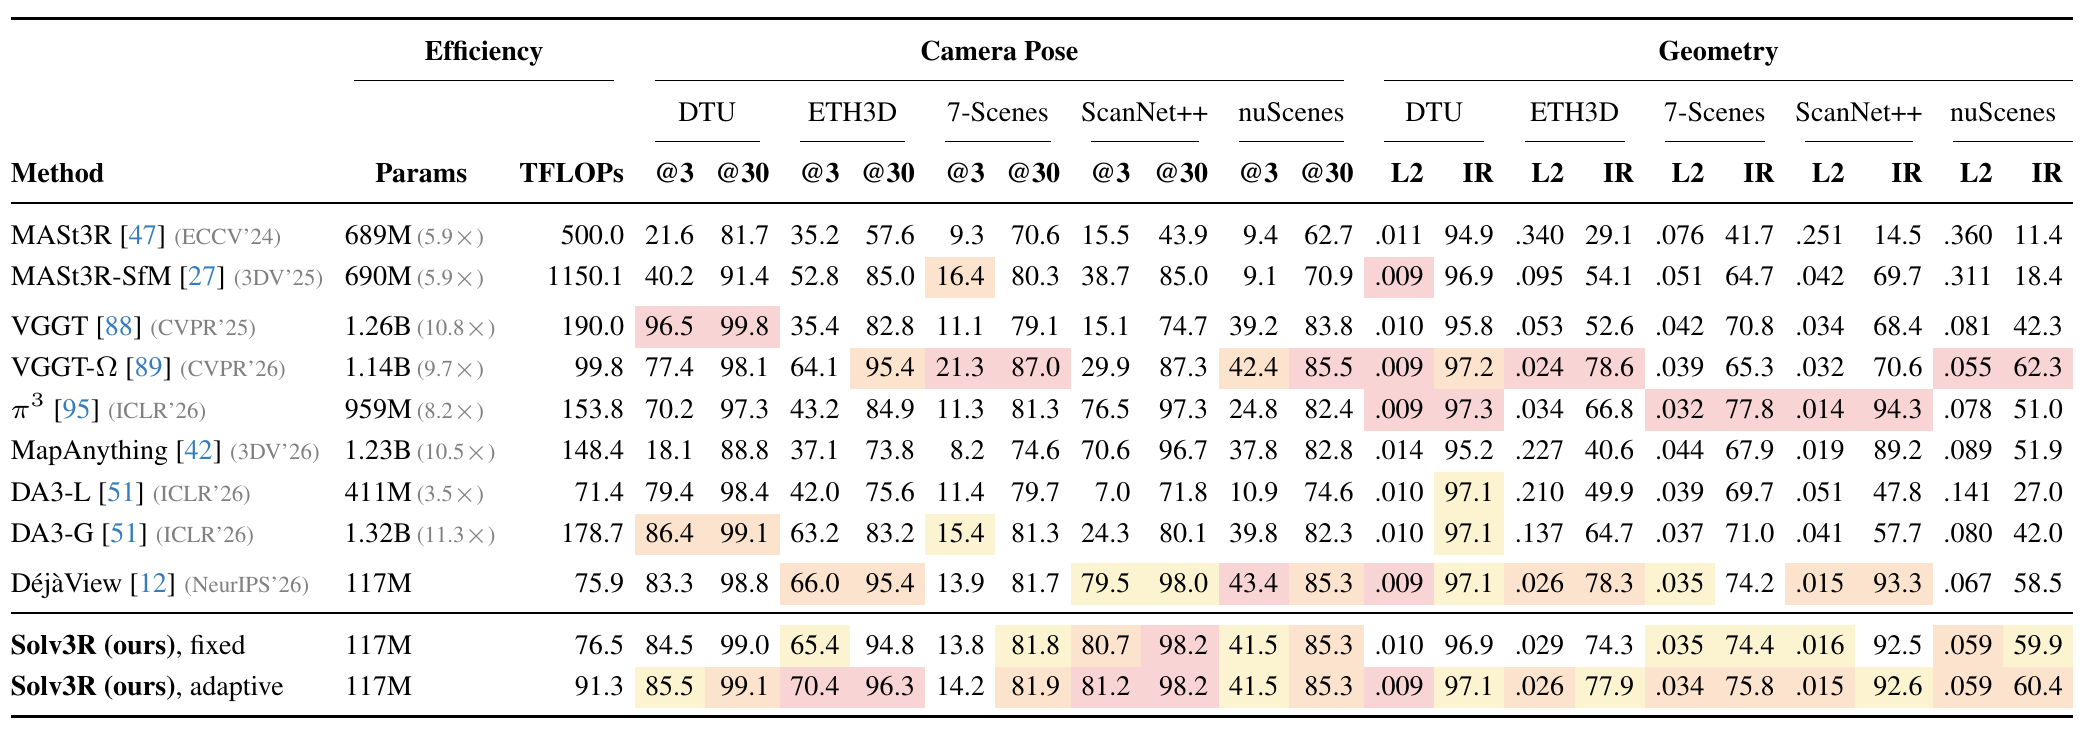
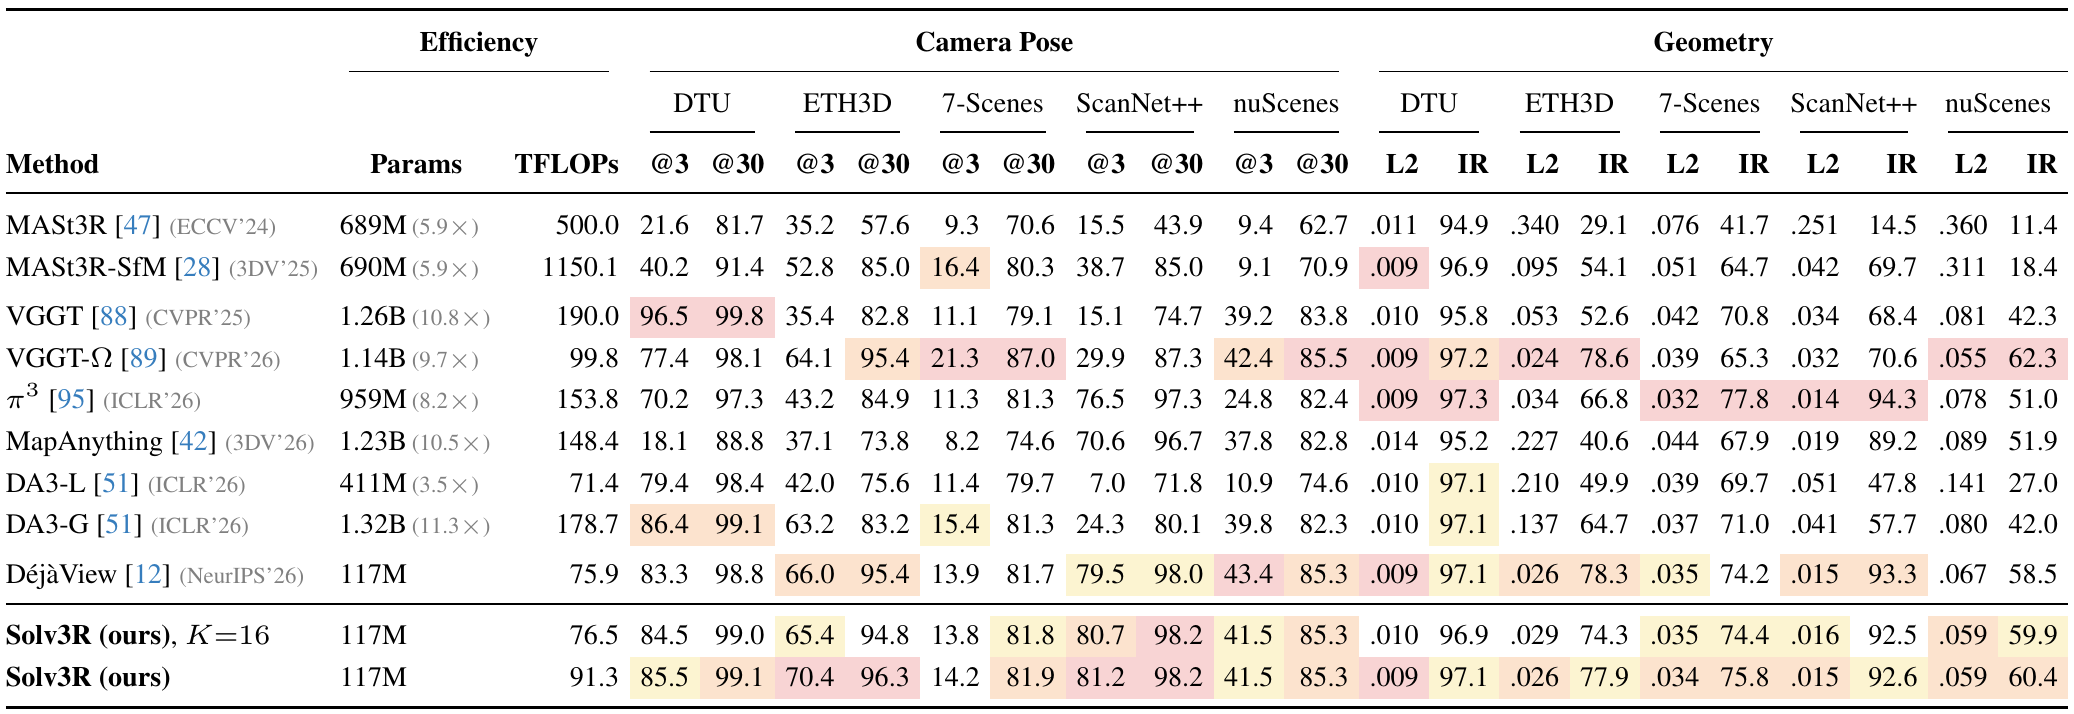
Update project page

Changed region(s): [[0.0, 0.4314, 1.0, 1.0], [0.0, 0.1232, 1.0, 0.4006], [0.0, 0.0, 1.0, 0.0924]]

diff --git a/index.html b/index.html
@@ -20,7 +20,7 @@
     { "imports": { "three": "https://cdn.jsdelivr.net/npm/three@0.160.0/build/three.module.min.js",
                    "three/addons/": "https://cdn.jsdelivr.net/npm/three@0.160.0/examples/jsm/" } }
   </script>
-  <script type="module" src="static/js/main.js?v=gallery-2"></script>
+  <script type="module" src="static/js/main.js?v=gallery-3"></script>
   <script type="module" src="static/js/loops.js"></script>
   <script type="module">
     import('./static/js/wordmark.js?v=8').catch(() => {
@@ -95,7 +95,7 @@
 <section class="section" id="abstract">
   <div class="wrap narrow">
     <h2 class="h2 center">Abstract</h2>
-    <p class="abstract">Classical structure-from-motion reconstruction proceeds iteratively, refining camera poses and scene geometry from a current estimate. This allows maps to easily expand without recomputing already computed views, or geometry estimates to improve as more observations are provided. Most geometric foundation models, however, predict entire geometry in a single forward pass or update a recurrent state as frames arrive sequentially, making this expansion and refinement non-trivial. We introduce Solv3R, a looped transformer that learns to continue solving multi-view geometry from its current state. Importantly, its update operator is independent of the iteration count, allowing previously refined and newly introduced views to be jointly updated regardless of how “solved” they are. We train the operator to preserve accurate reconstructions under continued iteration and correct inaccurate states, enabling refinement of fixed image collections and integration of new observations. Representations of solved views can also be cached once and reused as geometric context across iterations, enabling compact and efficient key-value caching. We analyze the solver dynamics and compare it with the state-of-the-art, demonstrating that a single learned solver supports offline reconstruction, incremental reconstruction, relocalization, and streaming without task-specific training or modules.</p>
+    <p class="abstract">Classical structure-from-motion reconstruction proceeds iteratively, refining camera poses and scene geometry from a current estimate. This allows maps to easily expand without recomputing solved views, or geometry estimates to improve as more observations are provided. Most geometric foundation models, however, predict entire geometry in a single forward pass or update a recurrent state as frames arrive sequentially, making this expansion and refinement non-trivial. We introduce Solv3R, a looped transformer that learns to continue solving multi-view geometry from its current state. Importantly, its update operator is independent of the iteration count, allowing previously refined and newly introduced views to be updated jointly or selectively, regardless of how “solved” they are. We train the operator to preserve accurate reconstructions under continued iteration and correct inaccurate states, enabling refinement of fixed image collections and integration of new observations. Representations of solved views can also be cached once and reused as geometric context across iterations, enabling compact and efficient key-value caching. We analyze the solver dynamics and compare it with the state-of-the-art, showing that a single learned solver supports offline and incremental reconstruction, relocalization, and streaming without task-specific training or learned modules. The code and model are available at <a href="https://github.com/ubc-vision/solv3r" target="_blank" rel="noopener">https://github.com/ubc-vision/solv3r</a>.</p>
   </div>
 </section>
 
@@ -202,7 +202,7 @@
 
     <div class="card flip" data-join-at="1">
       <div class="card-txt">
-        <h3>New photos also correct the old ones</h3>
+        <h3>New evidence can change old estimates</h3>
         <p>New views join the ongoing solve and improve earlier camera estimates. DéjàView fails to jointly refine new and previously solved views.</p>
       </div>
       <div class="media">
@@ -296,7 +296,6 @@
       <div class="dhead">
         <div class="kicker">Interactive</div>
         <h2 class="dh2">Explore the reconstructions</h2>
-        <p class="lead">Every scene below was solved by the same model from images alone, whether the photos came all at once, as a video, or in any order.</p>
       </div>
       <div class="player" id="gallery-player">
         <div class="stage gal-stage">
@@ -355,9 +354,9 @@
       </figure>
       <figure class="paper-result paper-result-plot">
         <a href="static/images/results/streaming-tradeoff.png" target="_blank" rel="noopener" aria-label="Open streaming accuracy and efficiency chart at full resolution">
-          <img src="static/images/results/streaming-tradeoff.png" alt="Paper Figure 12: pose error versus runtime, with bubble size indicating peak GPU memory." loading="lazy">
+          <img src="static/images/results/streaming-tradeoff.png" alt="Paper Figure 14: pose error versus runtime, with bubble size indicating peak GPU memory." loading="lazy">
         </a>
-        <figcaption>Figure 12. Streaming accuracy vs. efficiency.</figcaption>
+        <figcaption>Figure 14. Streaming accuracy vs. efficiency.</figcaption>
       </figure>
     </div>
     <div class="res-pane" id="tab-map" role="tabpanel" aria-labelledby="result-map" hidden>

diff --git a/static/js/main.js b/static/js/main.js
@@ -125,9 +125,8 @@ class Player {
 
 
 const GALLERY = [
-
-
-
+  { id: 'sofas', name: 'Sofas', poster: 'static/dense/sofas/views/009.jpg', setting: 'Incremental', sub: 'new frames join the solve', play: { mode: 'grow', duration: 12 }, dense: 'static/dense/sofas', camera: { yaw: 30, elev: 35, dist: 3.2 },
+    note: 'Eight frames of a handheld video are solved first, and ten more frames join the ongoing solve.' },
   { id: 'colosseum', name: 'Colosseum', setting: 'Offline', sub: '91 photos at once', play: { mode: 'offline', duration: 9 },
     note: 'VGGT example images. All 91 photos are solved together for 24 calls.' },
   { id: 'canyon', name: 'Basalt canyon', poster: 'static/dense/canyon_stream/views/024.jpg', setting: 'Streaming', sub: 'a video, frame by frame', play: { mode: 'stream', duration: 14 }, dense: 'static/dense/canyon_stream', camera: { yaw: 0, elev: 30, dist: 2.75 },
@@ -136,20 +135,16 @@ const GALLERY = [
 
     camera: { yaw: -80, elev: 36, dist: 2.5, target: [0.089, 0.016, 0.008], fov: 42 },
     note: 'Mill19, 96 aerial photos. Eight photos spread over the site are solved first, and the other 88 arrive in a random order, eight at a time. Cameras are colored by their rotation error against the dataset poses.' },
-  { id: 'palace', name: 'Palace of Fine Arts', poster: 'static/dense/palace/views/024.jpg', setting: 'Offline', sub: '48 photos at once', play: { mode: 'offline', duration: 9 }, dense: 'static/dense/palace', camera: { yaw: 0, elev: 35, dist: 2.4 },
-    note: 'DL3DV-10K validation scene. All 48 photos are solved together.' },
-  { id: 'restaurant', name: 'Restaurant', setting: 'Streaming', sub: 'a video, frame by frame', play: { mode: 'stream', duration: 16 },
-    note: 'DL3DV-10K validation video, 161 frames. Each frame is solved when it arrives, in a small window of recent and anchor frames, and the map shows each frame as it left the window. The ceiling is hidden so that the room can be seen from above.' },
   { id: 'courtyard', name: 'Courtyard', poster: 'static/dense/courtyard/views/012.jpg', setting: 'Any order', sub: 'photos arriving in any order', play: { mode: 'ooo', duration: 14 }, dense: 'static/dense/courtyard', camera: { yaw: 0, elev: 35, dist: 2.7 },
     note: 'ETH3D courtyard, 38 photos. Eight photos are solved first, and the other 30 arrive in a random order, four at a time.' },
-  { id: 'library', name: 'Library aisle', poster: 'static/dense/library/views/024.jpg', setting: 'Offline', sub: '48 photos at once', play: { mode: 'offline', duration: 9 }, dense: 'static/dense/library', camera: { yaw: -35, elev: 30, dist: 2.3 },
-    note: 'DL3DV-10K validation scene. All 48 photos are solved together. The ceiling is hidden so that the aisle can be seen from above.' },
+  { id: 'restaurant', name: 'Restaurant', setting: 'Streaming', sub: 'a video, frame by frame', play: { mode: 'stream', duration: 16 },
+    note: 'DL3DV-10K validation video, 161 frames. Each frame is solved when it arrives, in a small window of recent and anchor frames, and the map shows each frame as it left the window. The ceiling is hidden so that the room can be seen from above.' },
+  { id: 'palace', name: 'Palace of Fine Arts', poster: 'static/dense/palace/views/024.jpg', setting: 'Offline', sub: '48 photos at once', play: { mode: 'offline', duration: 9 }, dense: 'static/dense/palace', camera: { yaw: 0, elev: 35, dist: 2.4 },
+    note: 'DL3DV-10K validation scene. All 48 photos are solved together.' },
   { id: 'courtroom', name: 'Courtroom', poster: 'static/dense/courtroom/views/024.jpg', setting: 'Any order', sub: 'photos arriving in any order', play: { mode: 'ooo', duration: 14 }, dense: 'static/dense/courtroom', camera: { yaw: 0, elev: 35, dist: 2.4 },
     note: 'Tanks and Temples Courtroom, 48 photos. Eight photos are solved first, and the other 40 arrive in a random order, four at a time. The ceiling is hidden so that the room can be seen from above.' },
-  { id: 'london', name: 'Living room', poster: 'static/dense/london/views/024.jpg', setting: 'Any order', sub: 'photos arriving in any order', play: { mode: 'ooo', duration: 14 }, dense: 'static/dense/london', camera: { yaw: 60, elev: 35, dist: 1.2, target: [-0.1, -0.15, 0] }   ,
-    note: 'Zip-NeRF London living room, 48 photos. Eight photos are solved first, and the other 40 arrive in a random order, four at a time.' },
-
-
+  { id: 'library', name: 'Library aisle', poster: 'static/dense/library/views/024.jpg', setting: 'Offline', sub: '48 photos at once', play: { mode: 'offline', duration: 9 }, dense: 'static/dense/library', camera: { yaw: -35, elev: 30, dist: 2.3 },
+    note: 'DL3DV-10K validation scene. All 48 photos are solved together. The ceiling is hidden so that the aisle can be seen from above.' },
 ];
 const GAL = 'static/gallery', PLAY = 'static/play';
 

diff --git a/scripts/site_assets.py b/scripts/site_assets.py
@@ -15,7 +15,8 @@ from urllib.parse import unquote, urlsplit
 ROOT = Path(__file__).resolve().parents[1]
 MEDIA = ('dense', 'gallery', 'scenes', 'loops', 'play_video', 'videos')
 # Removed from the gallery; retain local originals but do not ship them.
-EXCLUDED = ('static/dense/building_stream', 'static/play_video/building.mp4')
+EXCLUDED = ('static/dense/building_stream', 'static/play_video/building.mp4', 'static/dense/london', 'static/dense/poster',
+            'static/play_video/london.mp4', 'static/play_video/poster.mp4')
 CONFIG = ROOT / 'assets-release.json'
 
 
@@ -30,14 +31,13 @@ def digest(path):
 def media_path(name):
     p = PurePosixPath(name)
     return (not p.is_absolute() and '..' not in p.parts and
-            (name == 'solv3r.pdf' or
-             any(name.startswith(f'static/{directory}/') for directory in MEDIA)))
+            any(name.startswith(f'static/{directory}/') for directory in MEDIA))
 
 
 def pack(args):
     archive = ROOT / '_release/website-assets.tar.gz'
     archive.parent.mkdir(exist_ok=True)
-    paths = [ROOT / 'solv3r.pdf']
+    paths = []
     for directory in MEDIA:
         base = ROOT / 'static' / directory
         if not base.is_dir():
@@ -96,8 +96,6 @@ def validate(site):
         walk(data)
     if missing:
         raise ValueError('Missing site assets: ' + ', '.join(sorted(set(missing))))
-    if not (site / 'solv3r.pdf').is_file():
-        raise ValueError('Paper PDF is missing')
     size = sum(p.stat().st_size for p in site.rglob('*') if p.is_file())
     if size >= 1_000_000_000:
         raise ValueError('Site exceeds the 1 GB Pages limit')
